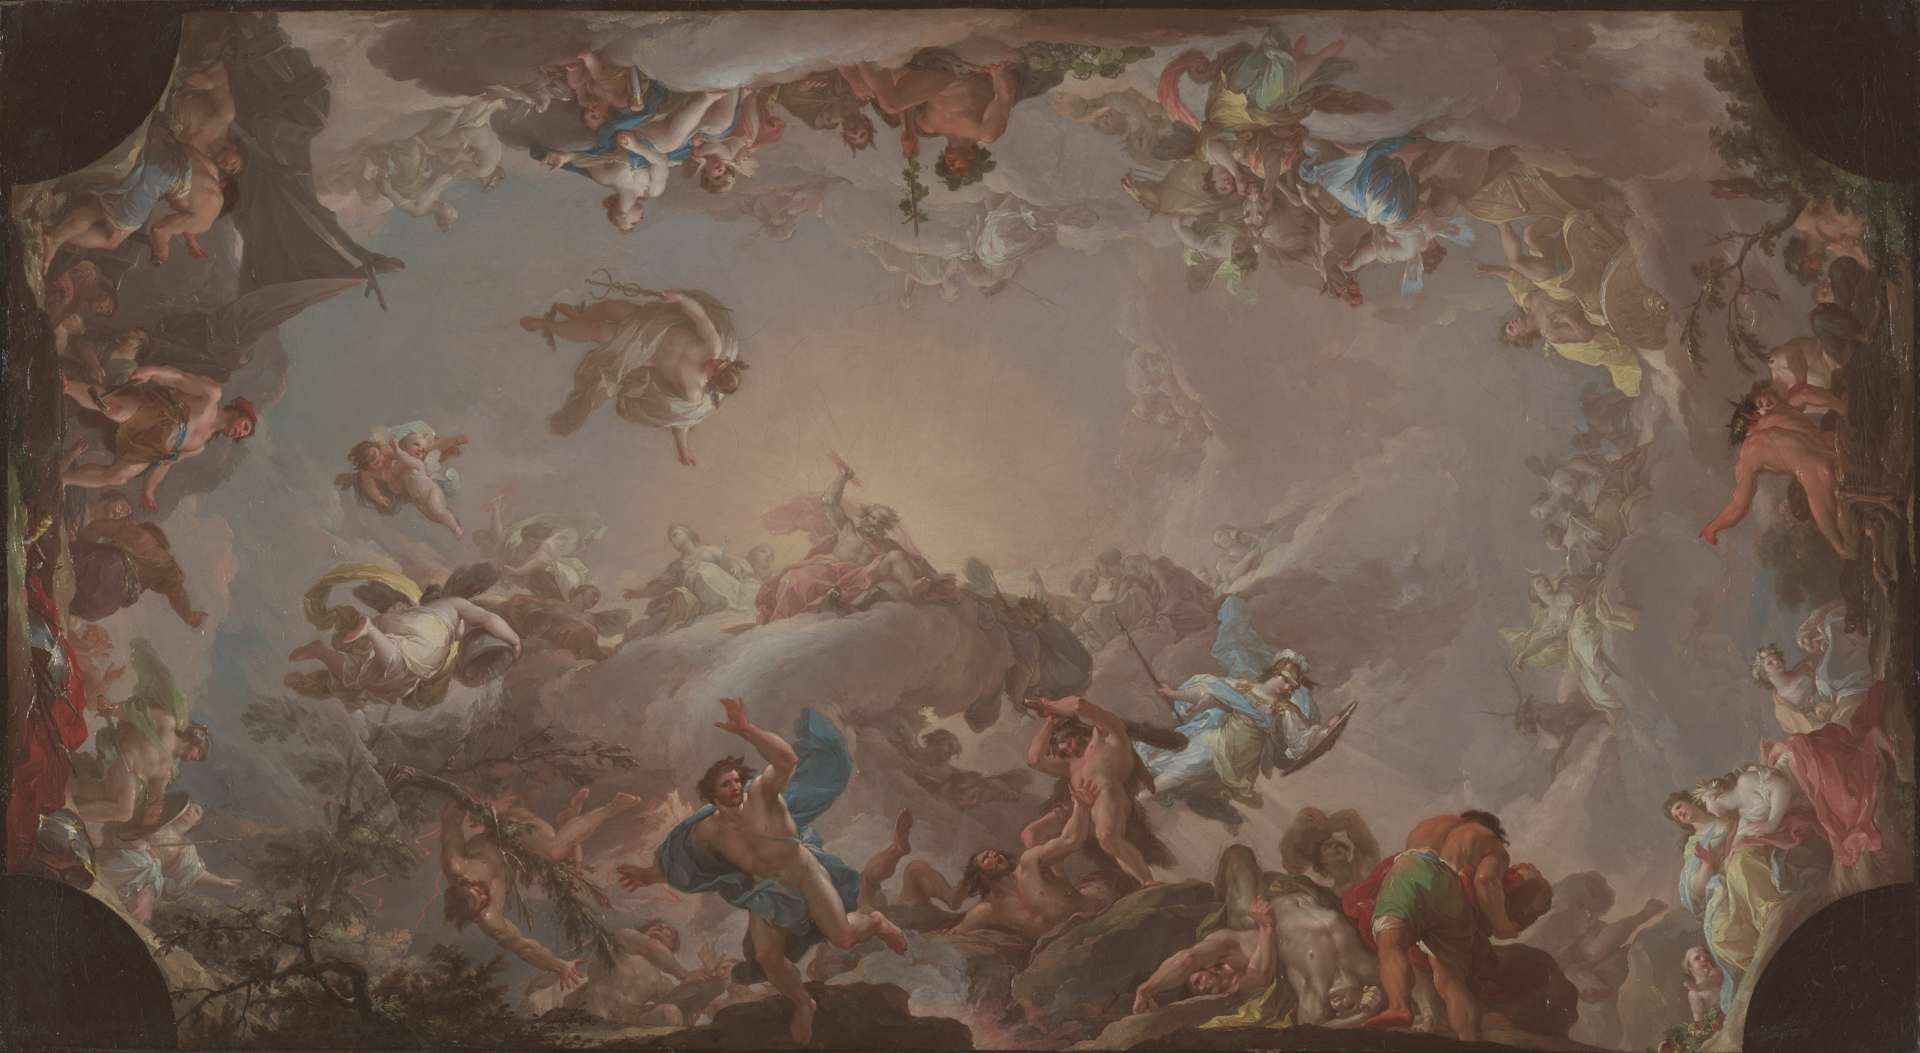
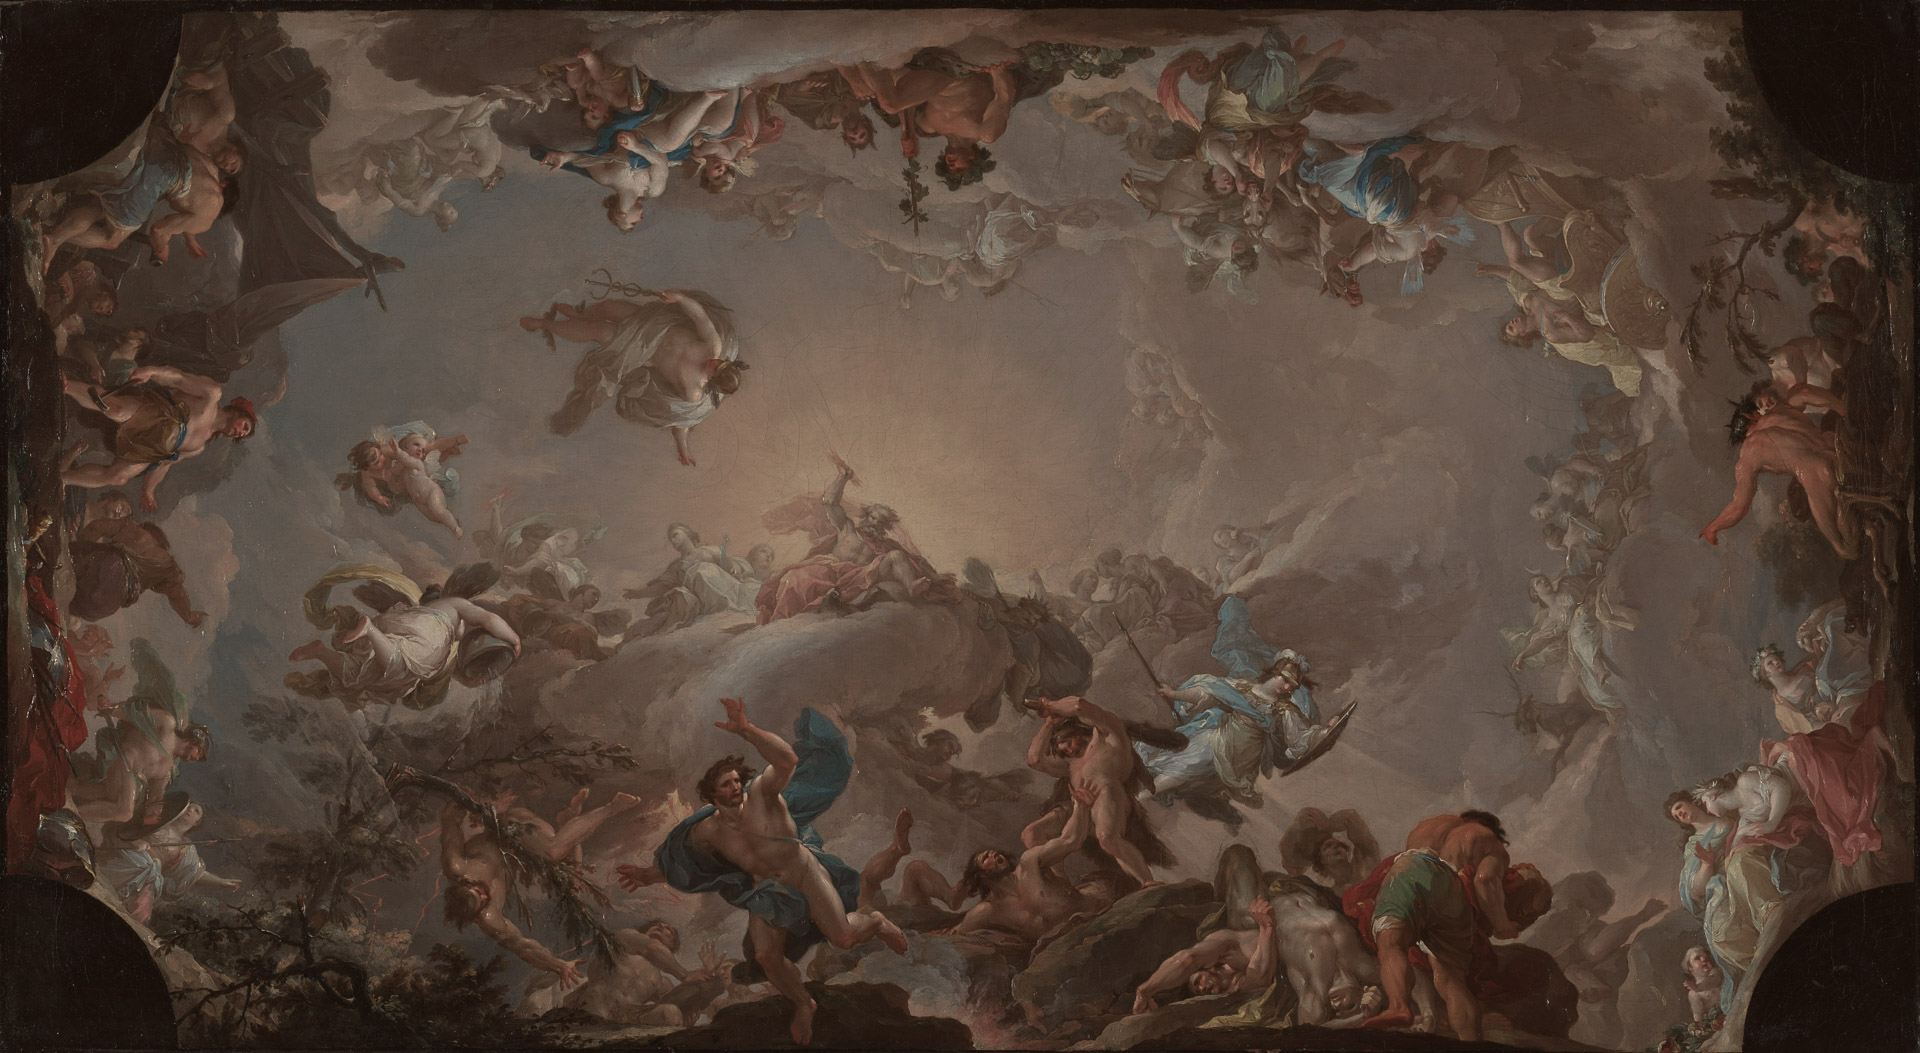
Subtle updates and new image

diff --git a/Portfolio/src/components/button/actionButton.module.css b/Portfolio/src/components/button/actionButton.module.css
@@ -20,6 +20,7 @@
   background-color: var(--accent-1);
   padding: var(--space-16);
   border-radius: var(--border-radius);
+  transition: background-color var(--motion-medium-2) var(--power-2-out);
 }
 
 .action-button-left h4 {
@@ -37,8 +38,40 @@
   align-items: center;
   background-color: var(--accent-1);
   border-radius: var(--border-radius);
+  transition: background-color var(--motion-medium-2) var(--power-2-out);
 }
 
+/*  */
+/* Btn Hover */
+/* Svg */
+.action-button-right svg path {
+  transition:
+    transform var(--motion-medium-2) var(--power-2-out),
+    stroke var(--motion-medium-2) var(--power-2-out);
+}
+
+.action-button:hover .action-button-right svg path:first-of-type {
+  transform: translateX(50%);
+}
+/*  */
+/* Background color switch */
+.action-button:hover .action-button-left {
+  background-color: var(--dark-3);
+}
+.action-button:hover .action-button-right {
+  background-color: var(--dark-3);
+}
+
+.action-button:hover .action-button-left h4 {
+  color: var(--accent-1);
+}
+
+.action-button:hover .action-button-right svg path {
+  stroke: var(--accent-1) !important;
+}
+
+/*  */
+/* Background color */
 /*  */
 /* Types */
 /* Intro */

diff --git a/Portfolio/src/components/introXfooter/footer/footerAni.jsx b/Portfolio/src/components/introXfooter/footer/footerAni.jsx
@@ -14,16 +14,15 @@ function FooterAni() {
     const ctx = gsap.context(() => {
       gsap.fromTo(
         footer,
-        { yPercent: -20 },
+        { yPercent: -15 },
         {
           yPercent: 0,
           ease: "none",
           scrollTrigger: {
             trigger: footer,
-            start: "top bottom",
+            start: "top 85%",
             end: "bottom bottom",
             scrub: true,
-            // markers: true, // uncomment to debug start/end visually
           },
         },
       );

diff --git a/Portfolio/src/views/home/about/about.module.css b/Portfolio/src/views/home/about/about.module.css
@@ -42,10 +42,9 @@
 /*  */
 /* Right side heading */
 .about-text h2 {
-  font-size: var(--typo-size-32);
+  font-size: var(--typo-size-40);
   font-weight: var(--typo-weight-semi-bold);
   line-height: 1.05;
-  margin-right: calc(var(--column-width) + var(--space-24));
 }
 
 /* Right side bottom icon */

diff --git a/Portfolio/src/views/home/who/who.jsx b/Portfolio/src/views/home/who/who.jsx
@@ -23,7 +23,7 @@ function Who() {
         {/*  */}
         {/* Image */}
         <div className={styles["who-bottom-image"]}>
-          <img src="/home/dev.png"></img>
+          <img src="/home/dev.jpg"></img>
         </div>
         {/*  */}
         {/* text section */}

diff --git a/Portfolio/src/components/filmGrain/filmGrain.module.css b/Portfolio/src/components/filmGrain/filmGrain.module.css
@@ -8,7 +8,7 @@
   height: 400vh;
   background: transparent url("./noise.png") repeat 0 0;
   background-repeat: repeat;
-  background-size: 325px 325px;
+  background-size: 400px 400px;
   animation: 750ms infinite noise;
   pointer-events: none;
   opacity: 0.9;

diff --git a/Portfolio/src/views/home/divider/divider.module.css b/Portfolio/src/views/home/divider/divider.module.css
@@ -1,6 +1,6 @@
 .divider {
   position: relative;
-  height: 70vh;
+  height: 65vh;
 }
 
 .divider img {
@@ -10,4 +10,5 @@
   width: 100%;
   height: 100%;
   object-fit: cover;
+  filter: saturate(0);
 }
